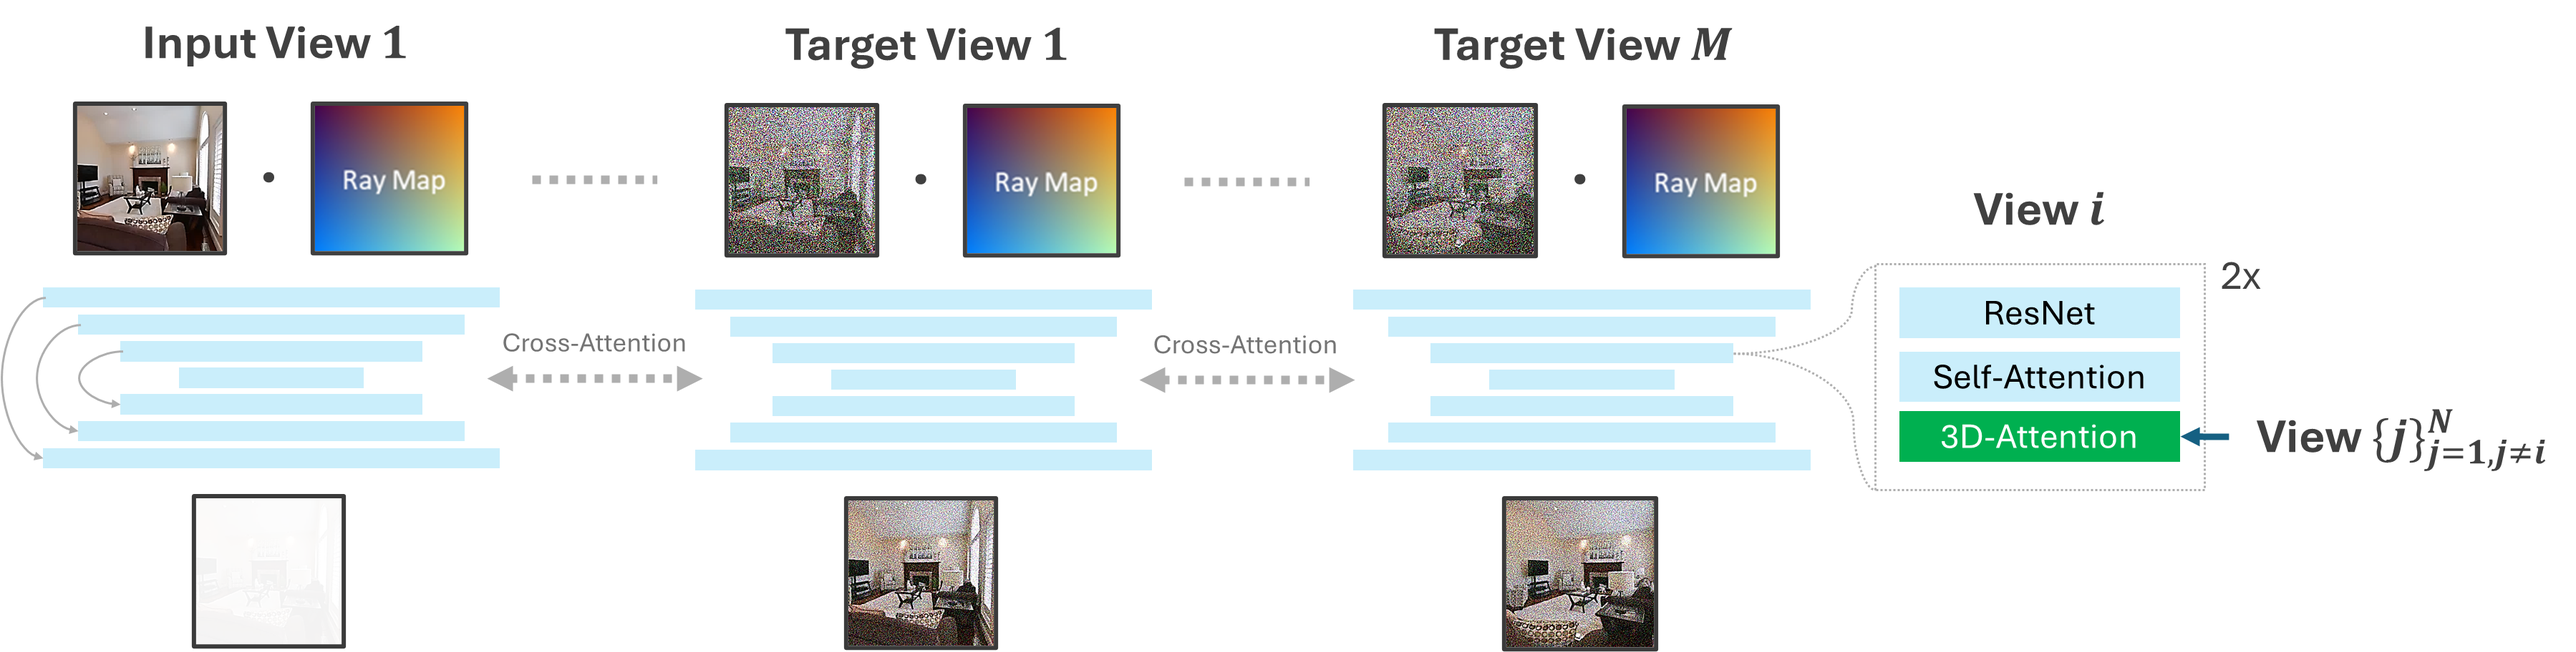
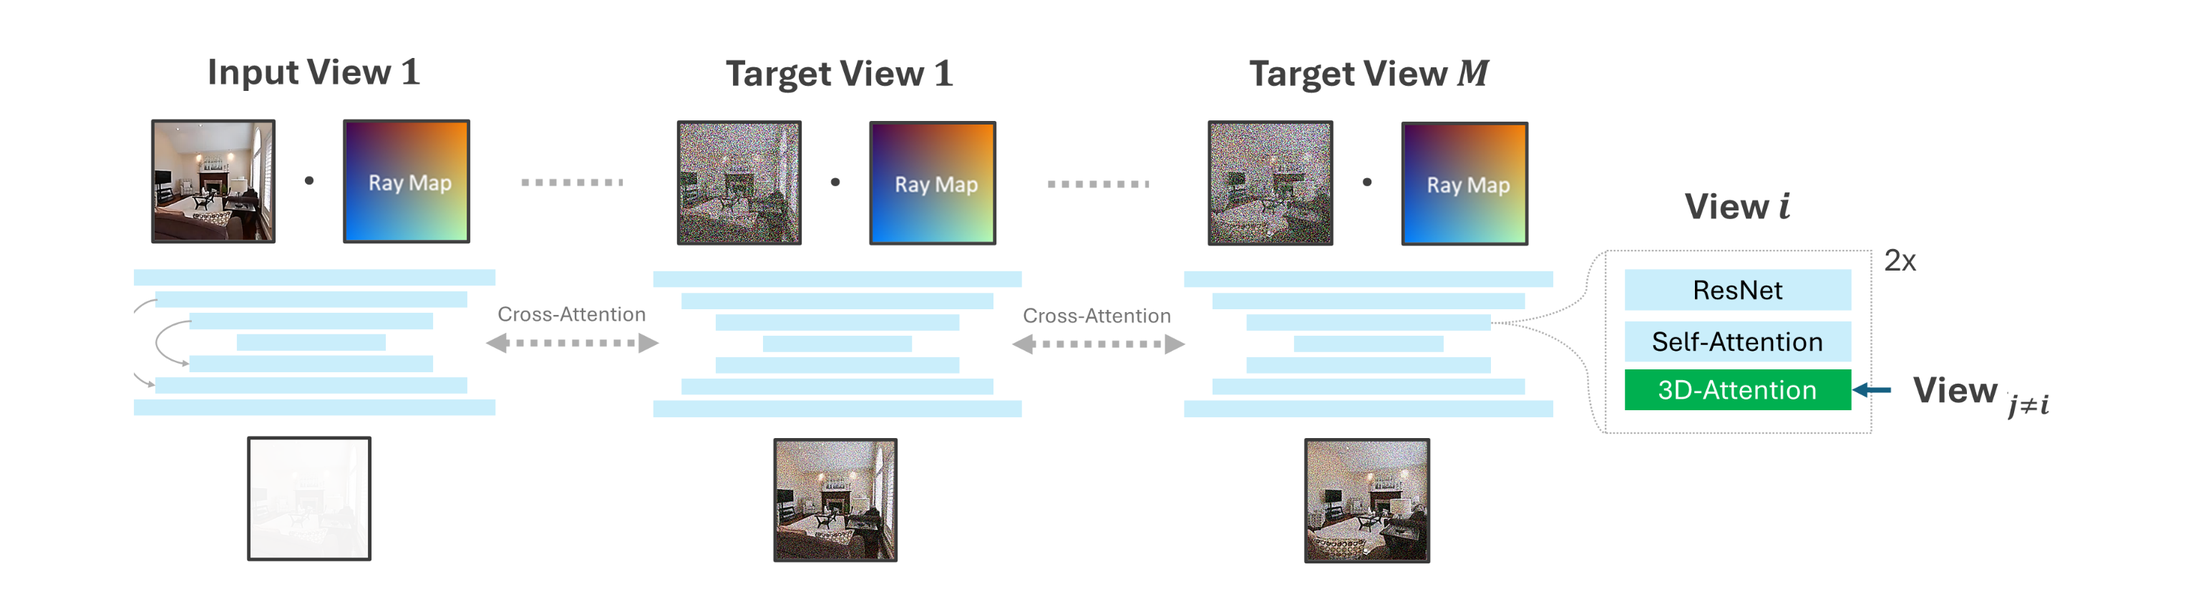
Modified configs, fixed readme, updated arch figure

diff --git a/src/scripts/generate_mvldm.py b/src/scripts/generate_mvldm.py
@@ -31,7 +31,6 @@ def evaluate(cfg_dict: DictConfig):
     set_cfg(cfg_dict)
     if cfg.seed is not None:
         torch.manual_seed(cfg.seed)
-    print(cfg)
 
     with open(cfg.dataset.view_sampler.index_path) as f:
         indices = json.load(f)

diff --git a/README.md b/README.md
@@ -29,18 +29,6 @@ pip install -r requirements.txt
 
 ```
 
-
-<details>
-<summary>Troubleshooting</summary>
-<br>
-
-If you face unrealistic CUDA out of memory issues (probably because of different GPU architectures during kernel compilation and training), try deinstalling the rasterizer and installing it with specified architectures:
-```bash
-pip uninstall diff-gaussian-rasterization
-TORCH_CUDA_ARCH_LIST="6.0 7.0 7.5 8.0 8.6+PTX" pip install git+https://github.com/Chrixtar/latent-gaussian-rasterization
-```
-</details>
-
 ## Acquiring Datasets
 Please move all dataset directories into a newly created `datasets` folder in the project root directory or modify the root path as part of the dataset config files in `config/dataset`.
 
